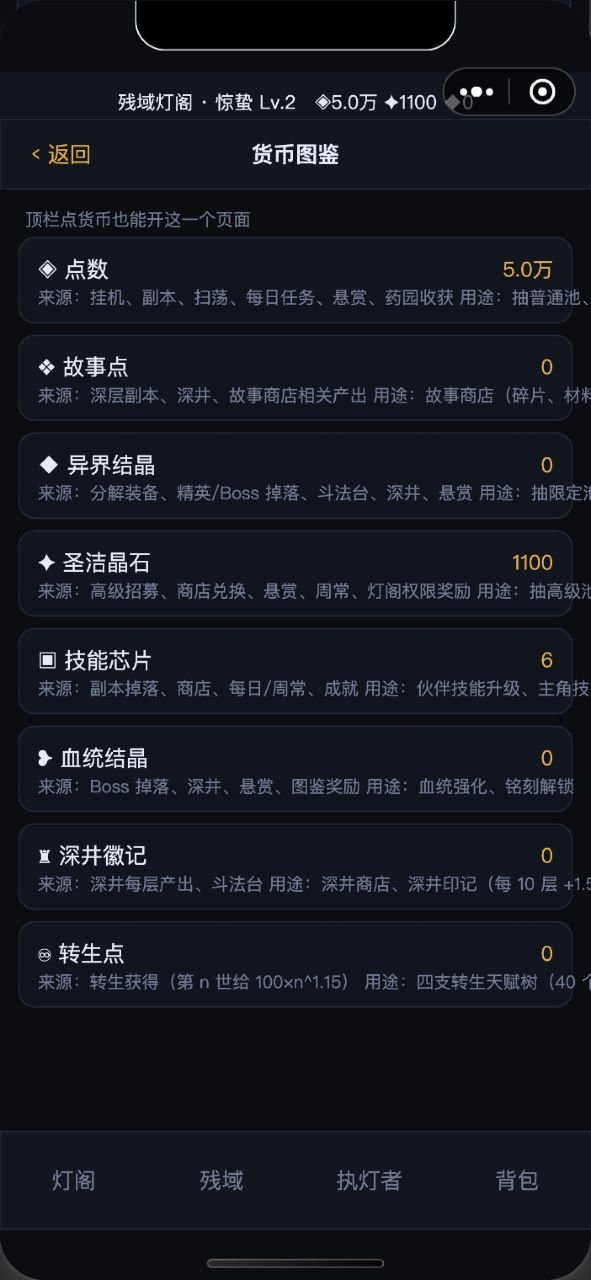
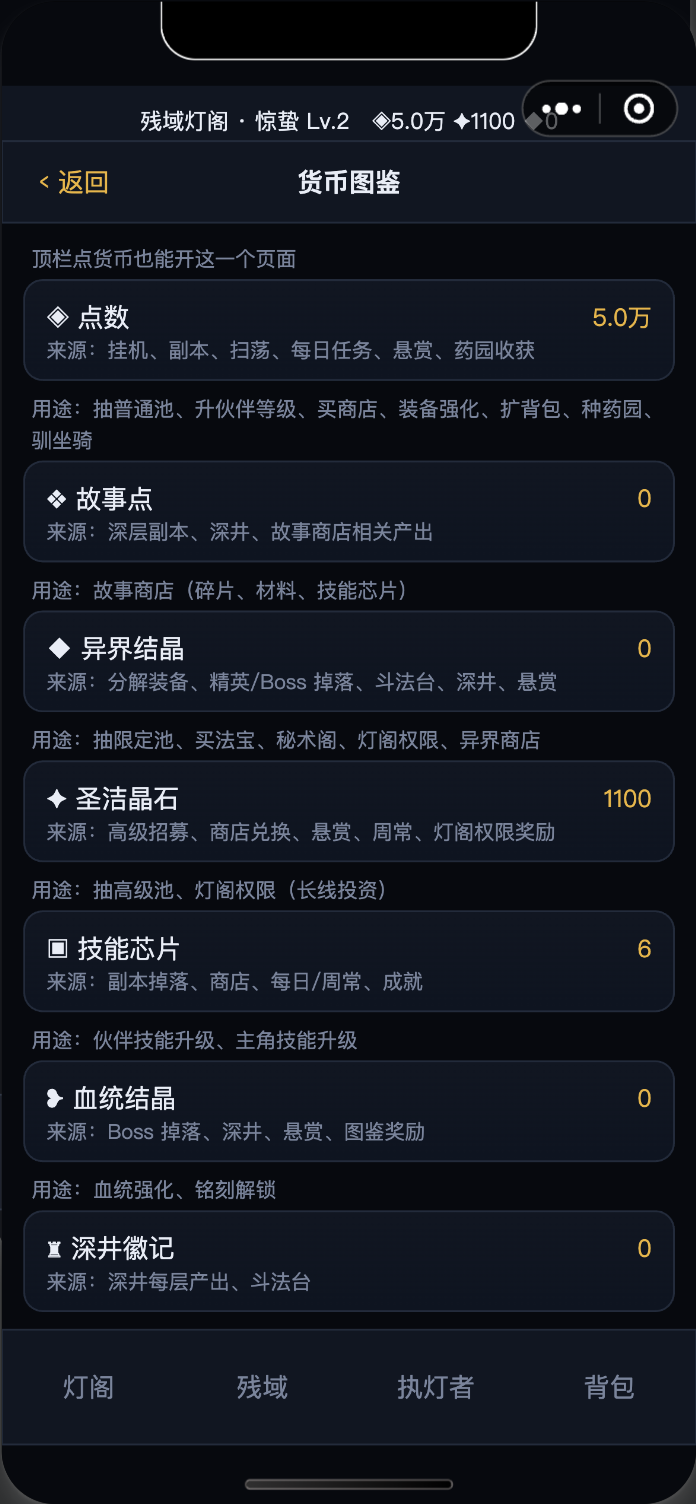
fix(出画): 所有文字加宽度约束——超长截断加省略号 / 长段折行
父亲大人报很多内容出画。根因：画文字从不量宽度，长文案直接画出屏幕右边。
- 新增 measure/fitText/wrapText 三个工具（有真 canvas 用 measureText，没有就按中英文估宽）
- 列表标签、宫格标题、按钮文字、格子名、顶栏状态：一律 fitText 截断（带 …）
- 段落文字（说明/描述）：wrapText 按宽度折行
- 货币图鉴的来源/用途已改两行，配合这次的截断，长句不再压出屏幕
- 真机复核：货币图鉴整页文字全部落在卡片内

diff --git a/js/cv.js b/js/cv.js
@@ -115,6 +115,43 @@ function drawText(str, x, y, opt) {
   c.textBaseline = 'middle';
   c.fillText(String(str), x, y);
 }
+/* ---------- 文字不许出画：量宽度 + 截断/换行 ----------
+   以前画文字不量宽度，长文案（货币图鉴的"来源/用途"、长名字的伙伴）
+   就直接画出屏幕右边——这就是"内容出画"。现在统一走这两个函数。 */
+function measure(str, size, bold) {
+  const c = CV.ctx;
+  try {
+    c.font = `${bold ? 'bold ' : ''}${size}px sans-serif`;
+    const m = c.measureText ? c.measureText(String(str)) : null;
+    if (m && m.width) return m.width;
+  } catch (e) { /* 没有真 canvas 时用估算 */ }
+  // 估算：中文按一个字号宽，英文/数字按 0.55
+  let w = 0;
+  for (const ch of String(str)) w += /[\u4e00-\u9fa5\uff00-\uffef]/.test(ch) ? size : size * 0.55;
+  return w;
+}
+// 超长就截断加省略号（列表标签、按钮文字用）
+function fitText(str, maxW, size, bold) {
+  str = String(str);
+  if (maxW <= 0) return '';
+  if (measure(str, size, bold) <= maxW) return str;
+  let s = str;
+  while (s.length > 1 && measure(s + '…', size, bold) > maxW) s = s.slice(0, -1);
+  return s + '…';
+}
+// 长段落按宽度折行（段落文字用）
+function wrapText(str, maxW, size, bold) {
+  const out = [];
+  String(str).split('\n').forEach(par => {
+    let line = '';
+    for (const ch of par) {
+      if (line && measure(line + ch, size, bold) > maxW) { out.push(line); line = ch; }
+      else line += ch;
+    }
+    out.push(line);
+  });
+  return out;
+}
 function addHit(id, x, y, w, h) { if (id) CV.hits.push({ id, x, y, w, h }); }
 // 按下反馈（网页版是 transform: scale(.97)）：按到哪个按钮，就把它画小一点点
 function isPressed(id) { return !!id && CV.pressedId === id && (Date.now() - (CV.pressedAt || 0)) < 160; }
@@ -149,9 +186,11 @@ const L = {
   text(str, opt) {
     opt = opt || {};
     const size = opt.size || 13;
-    const lines = String(str).split('\n');
+    const x = opt.x || 16;
+    const maxW = (opt.maxW || (CV.W - 16 - x));
+    const lines = wrapText(str, maxW, size, opt.bold);   // 折行，不再画出屏幕
     lines.forEach(ln => {
-      drawText(ln, opt.x || 16, this.y + size / 2 + 2, { size, color: opt.color || CV.C.text, bold: opt.bold, align: opt.align });
+      drawText(ln, x, this.y + size / 2 + 2, { size, color: opt.color || CV.C.text, bold: opt.bold, align: opt.align });
       this.y += size + 6;
     });
     this.y += 2;
@@ -163,10 +202,12 @@ const L = {
     const h = sub ? 54 : 44;
     // 卡片：网页版 .card 是浅渐变 + 1px 描边
     fillPanel(12, this.y, CV.W - 24, h, { grad: [CV.C.panel, '#0e1420'], line: CV.C.line });
-    drawText(label, 24, this.y + (sub ? 20 : h / 2), { size: 14, bold: !!opt.bold, color: opt.disabled ? CV.C.dim : CV.C.text });
-    if (sub) drawText(sub, 24, this.y + 38, { size: 11, color: CV.C.dim });
+    const valueW = opt.value ? measure(opt.value, 13) + 12 : 0;
+    const labelW = CV.W - 48 - valueW;                    // 左右各留 24 的边距
+    drawText(fitText(label, labelW, 14, !!opt.bold), 24, this.y + (sub ? 20 : h / 2), { size: 14, bold: !!opt.bold, color: opt.disabled ? CV.C.dim : CV.C.text });
+    if (sub) drawText(fitText(sub, CV.W - 48, 11), 24, this.y + 38, { size: 11, color: CV.C.dim });
     if (opt.value) drawText(opt.value, CV.W - 24, this.y + (sub ? 20 : h / 2), { size: 13, align: 'right', color: opt.valueColor || CV.C.gold });
-    if (opt.right) drawText(opt.right, CV.W - 24, this.y + (sub ? 38 : h / 2), { size: 11, align: 'right', color: CV.C.dim });
+    if (opt.right) drawText(fitText(opt.right, CV.W - 48, 11), CV.W - 24, this.y + (sub ? 38 : h / 2), { size: 11, align: 'right', color: CV.C.dim });
     if (opt.id && !opt.disabled) addHit(opt.id, 12, this.y, CV.W - 24, h);
     this.y += h + 8;
     return this;
@@ -186,7 +227,7 @@ const L = {
           : opt.ghost ? { fill: 'transparent', line: CV.C.line }
             : { fill: CV.C.panel2, line: CV.C.line2 };
     fillPanel(x, this.y + (press ? 1 : 0), w, h - (press ? 2 : 0), Object.assign({ r: CV.RADIUS_SM }, style));
-    drawText(label, x + w / 2, this.y + h / 2, {
+    drawText(fitText(label, w - 14, opt.size || 13, true), x + w / 2, this.y + h / 2, {
       size: opt.size || 13, bold: true, align: 'center',
       color: opt.disabled ? CV.C.dim : (opt.gold ? '#fdf3dc' : (opt.ghost ? CV.C.text2 : CV.C.text)),
     });
@@ -206,7 +247,7 @@ const L = {
           : b.gold ? { grad: ['#b98d2a', '#87631a'], line: '#e6b64c44' }
             : { fill: CV.C.panel2, line: CV.C.line2 };
       fillPanel(x, this.y + (press ? 1 : 0), w - (press ? 4 : 0), bh - (press ? 2 : 0), Object.assign({ r: CV.RADIUS_SM }, style));
-      drawText(b.label, x + w / 2, this.y + bh / 2, { size: b.size || 12, bold: true, align: 'center', color: b.disabled ? CV.C.dim : CV.C.text });
+      drawText(fitText(b.label, w - 10, b.size || 12, true), x + w / 2, this.y + bh / 2, { size: b.size || 12, bold: true, align: 'center', color: b.disabled ? CV.C.dim : CV.C.text });
       if (b.id && !b.disabled) addHit(b.id, x, this.y, w, bh);
     });
     this.y += (list[0] && list[0].h || 40) + 8;
@@ -243,8 +284,8 @@ const L = {
       const y = this.y + Math.floor(i / n) * (h + gap);
       fillPanel(x, y, w, h, { fill: CV.C.panel, line: CV.C.line2, r: 6 });
       const sub = it.sub ? (it.sub.length > 12 ? it.sub.slice(0, 12) : it.sub) : '';
-      drawText(it.label, x + w / 2, y + (sub ? 21 : h / 2), { size: 13, bold: true, align: 'center', color: it.disabled ? CV.C.dim : CV.C.text });
-      if (sub) drawText(sub, x + w / 2, y + 38, { size: 10, align: 'center', color: CV.C.dim });
+      drawText(fitText(it.label, w - 8, 13, true), x + w / 2, y + (sub ? 21 : h / 2), { size: 13, bold: true, align: 'center', color: it.disabled ? CV.C.dim : CV.C.text });
+      if (sub) drawText(fitText(sub, w - 8, 10), x + w / 2, y + 38, { size: 10, align: 'center', color: CV.C.dim });
       if (it.dot) {
         CV.ctx.fillStyle = CV.C.accent;
         CV.ctx.beginPath();
@@ -291,7 +332,7 @@ CV.draw = function () {
   // 顶栏
   fillPanel(0, 0, CV.W, CV.TOP + 2, { r: 0, line: 'rgba(0,0,0,0)' });
   const st = (CV.statusText && CV.statusText()) || '';
-  drawText(st, CV.W / 2, CV.TOP / 2 + 4, { size: 12, align: 'center', color: CV.C.text });
+  drawText(fitText(st, CV.W - 16, 12), CV.W / 2, CV.TOP / 2 + 4, { size: 12, align: 'center', color: CV.C.text });
   // 顶栏点一下 = 打开货币图鉴（网页版也是这个交互）
   addHit('open_curdoc', 0, 0, CV.W, CV.TOP);
 
